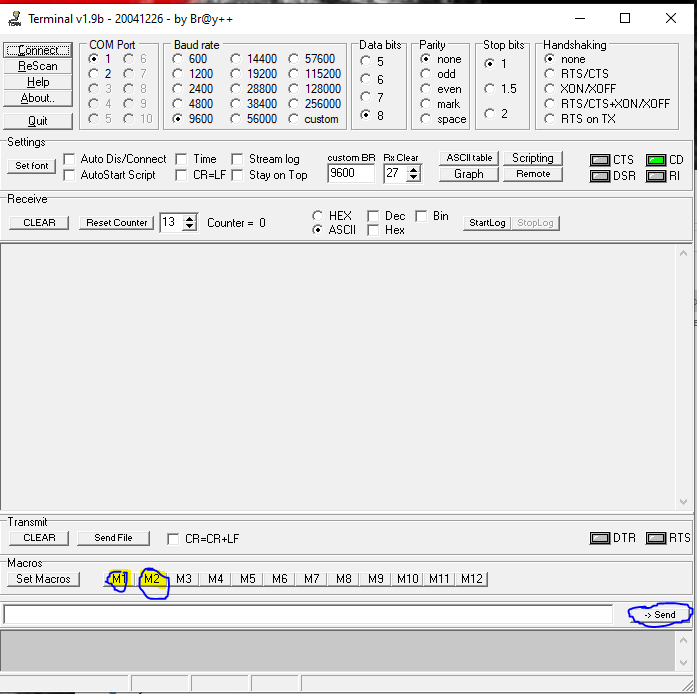
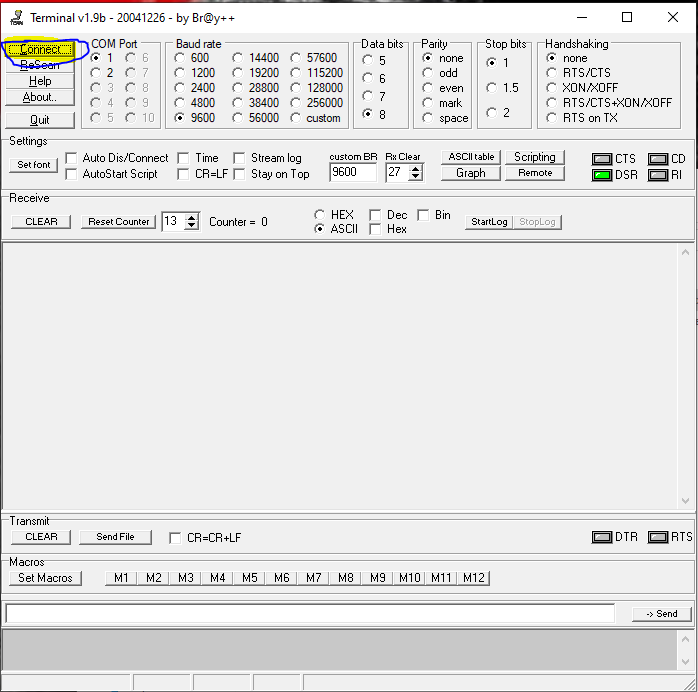
EOrlov 2026-02-27 11:52:18

diff --git a/docs/testing/General/Периферийные устройства/Плата защиты.md b/docs/testing/General/Периферийные устройства/Плата защиты.md
@@ -30,7 +30,7 @@ tags:
 
 # Прошивка ПЗПК
 
-Запустить **Terminal**  (вызвать команду *Выполнить (==Win+R==)* > в поле написать *"term"* ). 
+Запустить **Terminal**  (вызвать команду *Выполнить* (==***Win+R***==) > в поле написать *"term"* ). 
 
 ![[Terminal.png]]
 
@@ -38,4 +38,8 @@ tags:
 
 ![[Terminal_point_1.png]]
 
-Нажать кнопку ***Connect*** 
+Нажать кнопку ***Connect***  (сочетание клавиш ==***Alt+C***==).
+
+![[Terminal_point_2.png]]
+
+Далее, в текстовом файле написан код команды, копируем обе строки отдельно, и вставляем в поле под кнопкой ***Set Macros***
